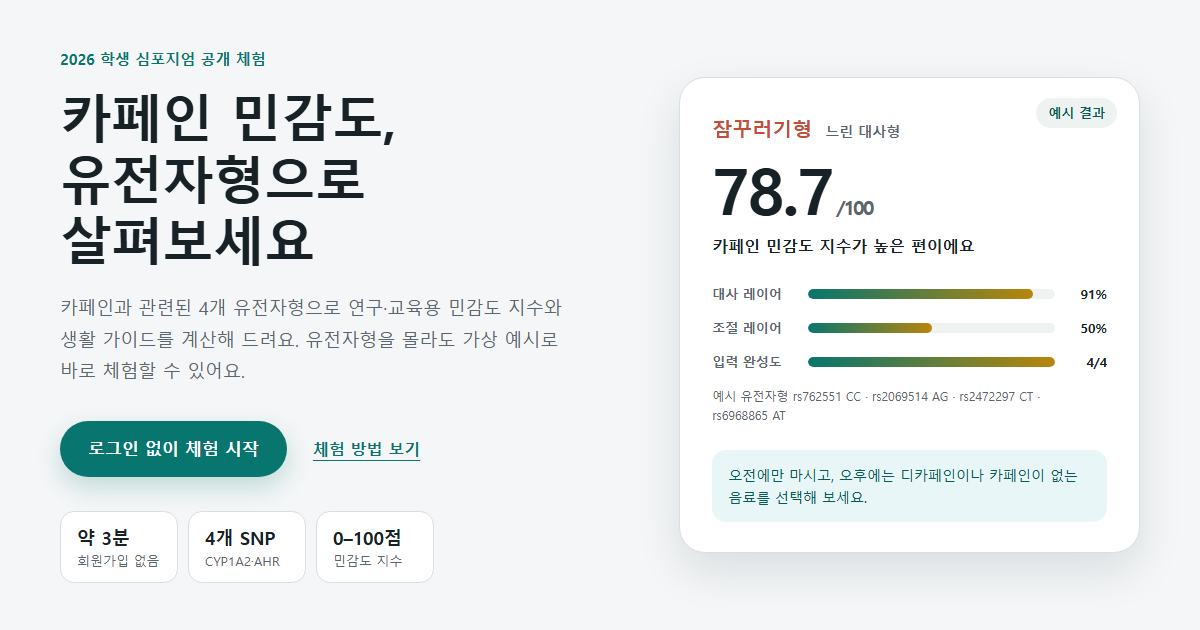
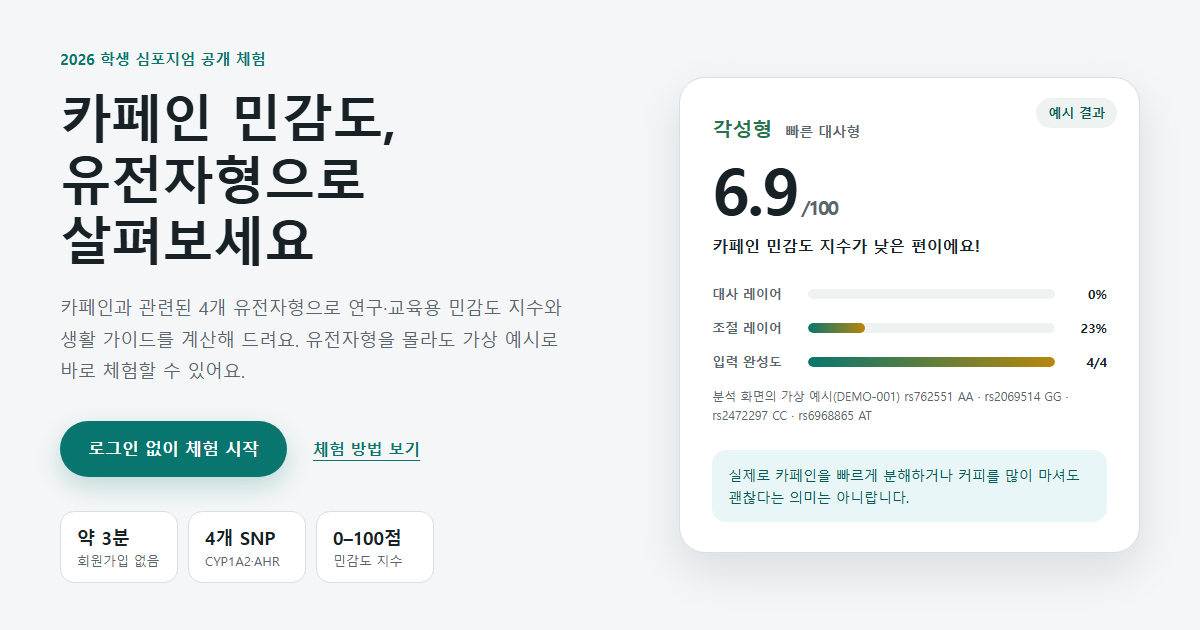
Show the analyzer's own DEMO-001 example on the homepage sample card
The sample card used a genotype set Claude picked (CC/AG/CT/AT, 78.7).
The owner asked for the analyzer's official fictional example instead,
so nothing on the card is chosen by hand. DEMO-001 is defined in app.js
showExampleReport(): rs762551 AA, rs2069514 GG, rs2472297 CC,
rs6968865 AT. Running it in the analyzer gives 6.9, metabolism 0,
regulation 23, 4/4 input, 각성형 / 빠른 대사형, "카페인 민감도 지수가 낮은
편이에요!". Codex recomputed the same values from the weights.

The tip is the caution sentence from the 각성형 report text, "실제로
카페인을 빠르게 분해하거나 커피를 많이 마셔도 괜찮다는 의미는 아니랍니다.",
because a low score next to the "3-4잔" recommendation could read as
permission to drink more. The type label uses --green, the low end of
the analyzer gauge (5.77:1 on white).

The sample test now runs the real app.js scoring code on exampleGenotypes
and checks every value on the card: score, type, badge, title, both
layer percentages, bar widths, 4/4, and that the tip is an existing
report sentence. Codex showed the previous version still passed with a
changed score or a changed classify() threshold; both now fail.

diff --git a/caffeine-sensitivity-app/index.html b/caffeine-sensitivity-app/index.html
@@ -68,16 +68,16 @@
 
         <figure class="home-sample" aria-label="예시 결과 화면">
           <figcaption class="home-sample-tag">예시 결과</figcaption>
-          <p class="home-sample-type">잠꾸러기형 <span>느린 대사형</span></p>
-          <p class="home-sample-score">78.7<small>/100</small></p>
-          <p class="home-sample-title">카페인 민감도 지수가 높은 편이에요</p>
+          <p class="home-sample-type">각성형 <span>빠른 대사형</span></p>
+          <p class="home-sample-score">6.9<small>/100</small></p>
+          <p class="home-sample-title">카페인 민감도 지수가 낮은 편이에요!</p>
           <dl class="home-sample-bars">
-            <div><dt>대사 레이어</dt><dd aria-hidden="true"><i style="width:91%"></i></dd><dd class="home-bar-value">91%</dd></div>
-            <div><dt>조절 레이어</dt><dd aria-hidden="true"><i style="width:50%"></i></dd><dd class="home-bar-value">50%</dd></div>
+            <div><dt>대사 레이어</dt><dd aria-hidden="true"><i style="width:0%"></i></dd><dd class="home-bar-value">0%</dd></div>
+            <div><dt>조절 레이어</dt><dd aria-hidden="true"><i style="width:23%"></i></dd><dd class="home-bar-value">23%</dd></div>
             <div><dt>입력 완성도</dt><dd aria-hidden="true"><i style="width:100%"></i></dd><dd class="home-bar-value">4/4</dd></div>
           </dl>
-          <p class="home-sample-genotypes">예시 유전자형 <span>rs762551 CC</span> · <span>rs2069514 AG</span> · <span>rs2472297 CT</span> · <span>rs6968865 AT</span></p>
-          <p class="home-sample-tip">오전에만 마시고, 오후에는 디카페인이나 카페인이 없는 음료를 선택해 보세요.</p>
+          <p class="home-sample-genotypes">분석 화면의 가상 예시(DEMO-001) <span>rs762551 AA</span> · <span>rs2069514 GG</span> · <span>rs2472297 CC</span> · <span>rs6968865 AT</span></p>
+          <p class="home-sample-tip">실제로 카페인을 빠르게 분해하거나 커피를 많이 마셔도 괜찮다는 의미는 아니랍니다.</p>
         </figure>
       </div>
     </section>

diff --git a/caffeine-sensitivity-app/home.css b/caffeine-sensitivity-app/home.css
@@ -251,7 +251,7 @@ body.landing .home-sample-tag {
 }
 
 body.landing .home-sample-type {
-  color: var(--coral);
+  color: var(--green);
   font-size: 20px;
   font-weight: 800;
 }
